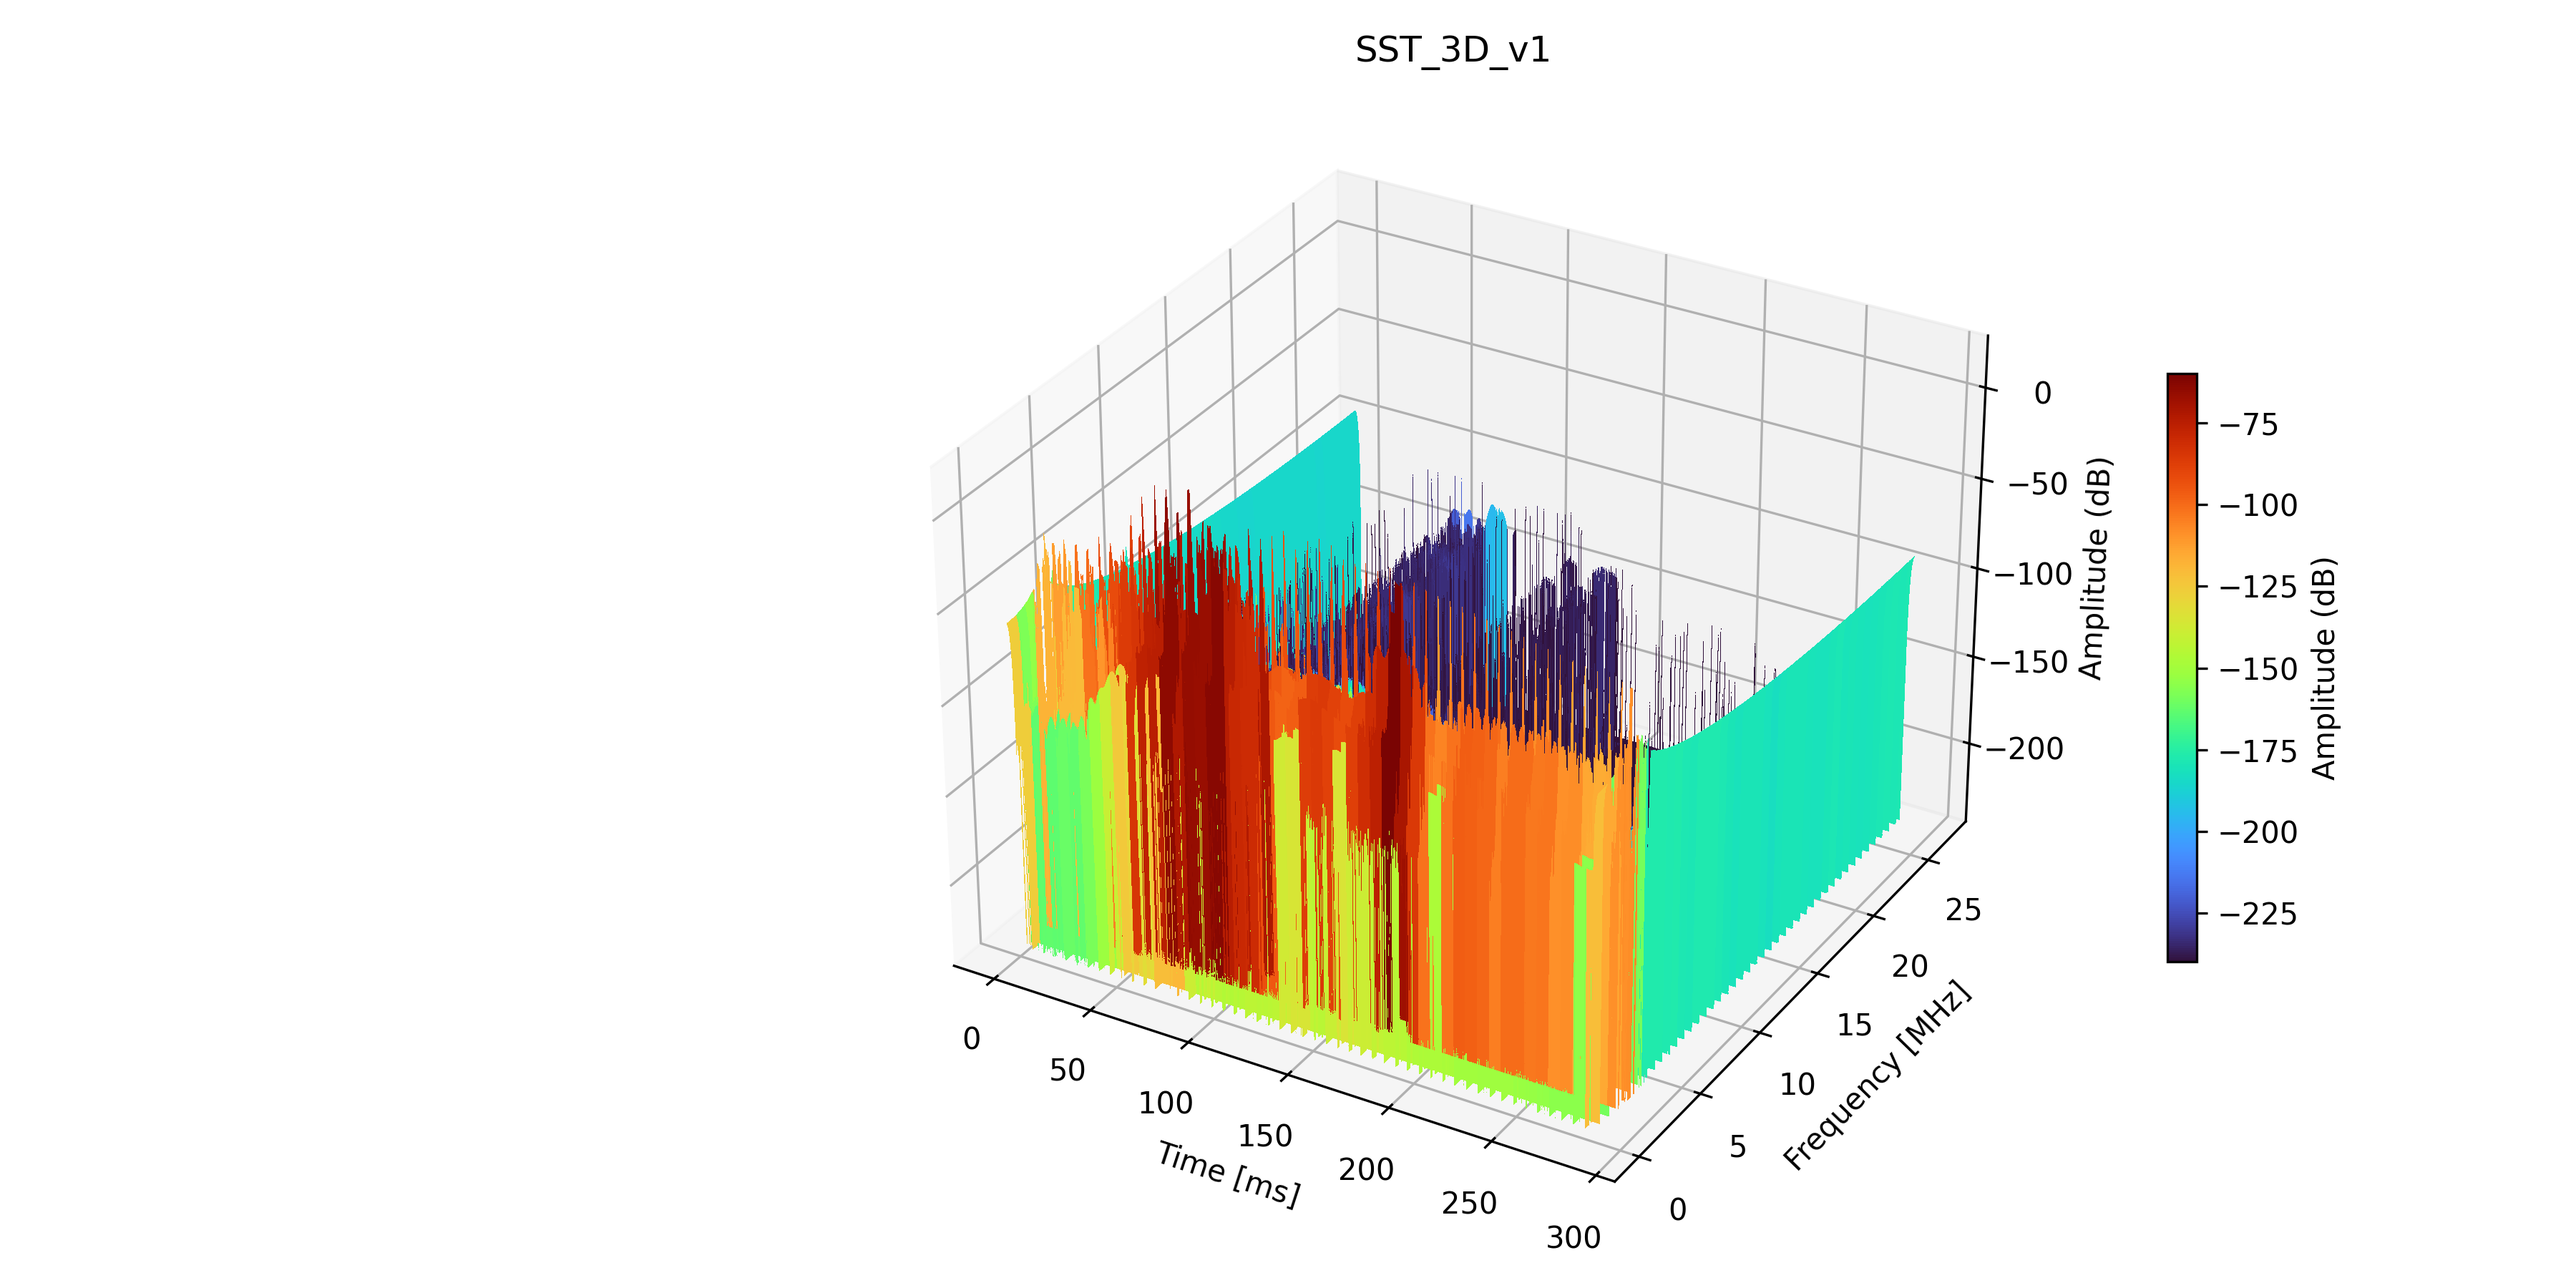
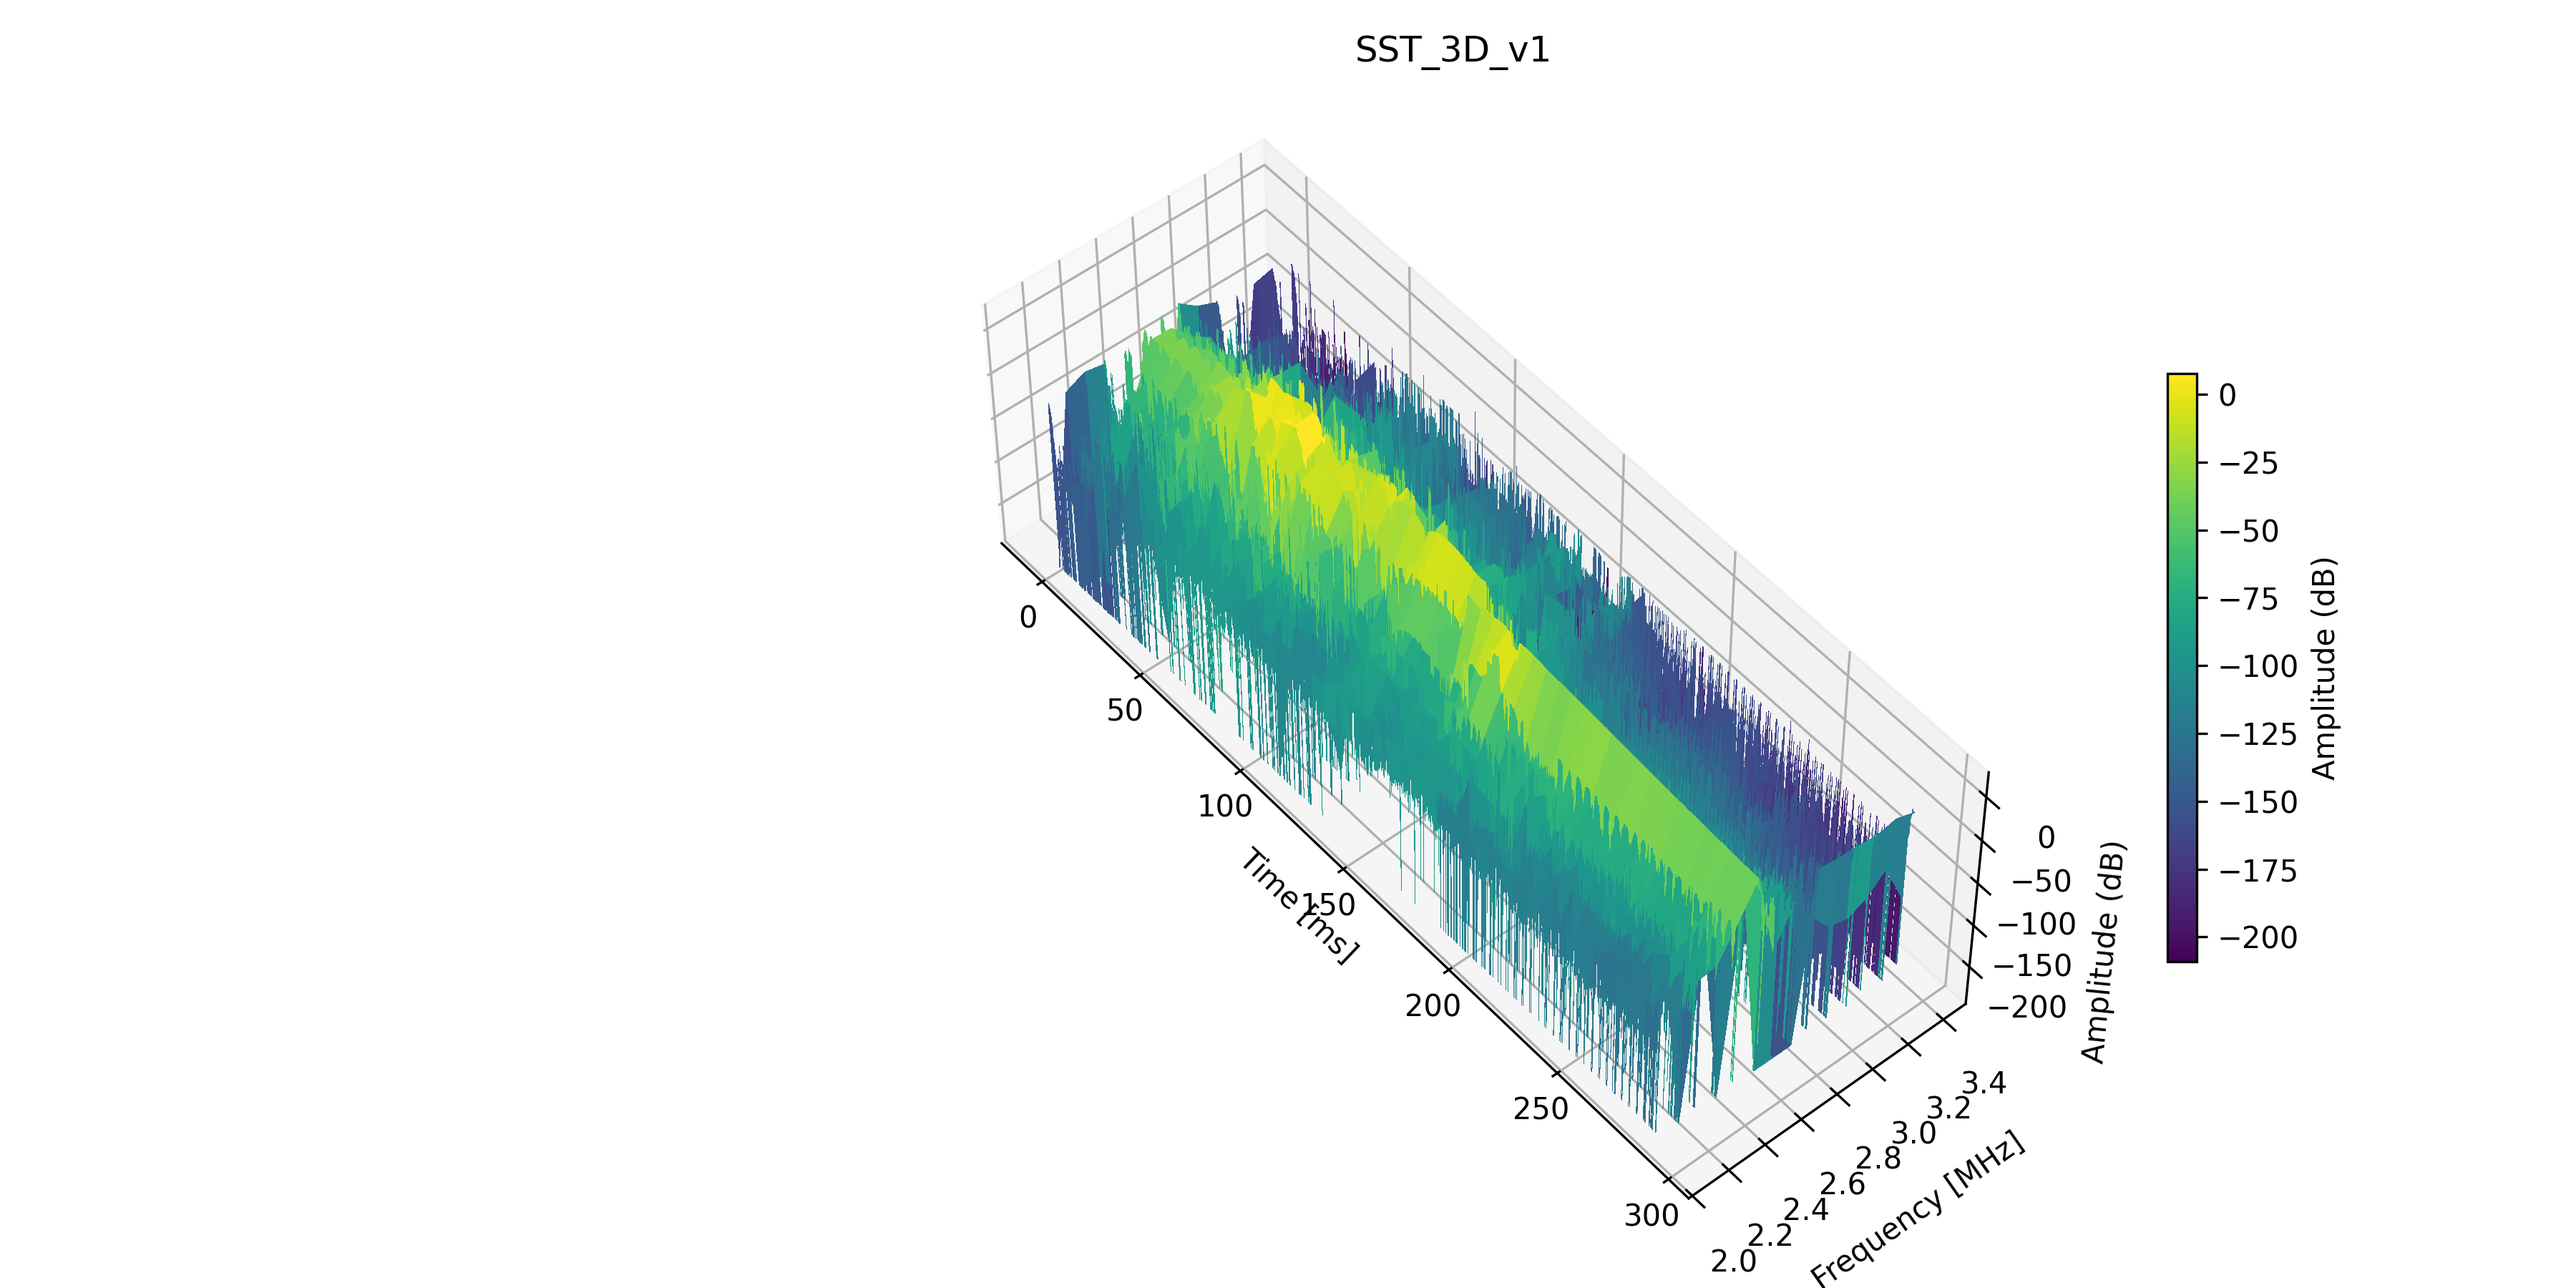
test

diff --git a/Mains/main_sst.py b/Mains/main_sst.py
@@ -22,7 +22,7 @@ preprocess.plot(t, y, 1, 'time_vs_volt')
 
 # ── STFT (original, from functions.py) ─────────────────────────────────────
 f, t_seg, amplitude, fs = sst_processing.stft(y, t)
-sst_processing.plot_stft(f, t_seg, amplitude, downsampling=1, name="Spectrogram_version_sst_v1",dB=True)
+sst_processing.plot_stft(f, t_seg, amplitude, downsampling=1, name="Spectrogram_version_sst_v2",dB=True)
 
 
 # ── SST — sharpened version of the STFT above ──────────────────────────────
@@ -30,10 +30,17 @@ f_sst, t_sst, Tx_amp, Sx_amp, fs_sst = sst_processing.sst(y, t, win_len=256, hop
 sst_processing.plot_sst(f_sst, t_sst, Tx_amp, name="SST_Spectrogram_v1", dB=True)
 
 # ── 3D SST plot ─────────────────────────────────────────────────────────────
-sst_processing.plot_sst_3d(t_sst, f_sst, Tx_amp, name="SST_3D_v1", dB=True, downsampling=1) #freq_min=2, freq_max=3.5
+sst_processing.plot_sst_3d(t_sst, f_sst, Tx_amp, name="SST_3D_v1", downsampling=5, dB=True, elev=50, azim=-40, cmap = 'viridis', smooth=True, freq_min=2, freq_max=3.5)
 
 # ── Inverse SST — reconstruct signal and compare ───────────────────────────
 _, _, Tx_c, _, _ = sst_processing.sst_complex(y, t, win_len=256, hop_len=1)
+
+# Zero out all frequencies outside 2–2.8 MHz
+f_sst_np = sst_processing._to_numpy(f_sst)
+mask = (f_sst_np >= 2) & (f_sst_np <= 2.8)
+Tx_filtered = Tx_c.copy()
+Tx_filtered[~mask, :] = 0   # kill everything outside the band
+
 x_rec = sst_processing.isst(Tx_c, win_len=256, hop_len=1)
 
 

diff --git a/transforms/sst_processing.py b/transforms/sst_processing.py
@@ -162,8 +162,8 @@ def isst(Tx, win_len=256, hop_len=1, window='hann'):
     x_rec = issq_stft(Tx, window=win_arr, hop_len=hop_len)
     return np.real(x_rec)
 
-def plot_sst_3d( t_seg, f, amplitude, downsampling=1, name="sst_3d", dB=False,
-                freq_min=None, freq_max=None, elev=30, azim=-60):
+def plot_sst_3d( t_seg, f, amplitude, downsampling=8, name="sst_3d", dB=False,
+                freq_min=None, freq_max=None, elev=30, azim=-60, cmap='viridis', smooth=True):
     """
     3-D surface plot of an SST or STFT amplitude matrix.
 
@@ -207,8 +207,10 @@ def plot_sst_3d( t_seg, f, amplitude, downsampling=1, name="sst_3d", dB=False,
 
     fig = plt.figure(figsize=(12, 6))
     ax  = fig.add_subplot(111, projection='3d')
+    ax.set_box_aspect((3,1,1)) # wider aspect ratio for better visibility
 
-    surf = ax.plot_surface(T, F, amp, cmap='turbo', linewidth=0, antialiased=False)
+
+    surf = ax.plot_surface(T, F, amp, cmap='viridis', linewidth=0, antialiased=False)
 
     ax.set_xlabel("Time [ms]")
     ax.set_ylabel("Frequency [MHz]")
